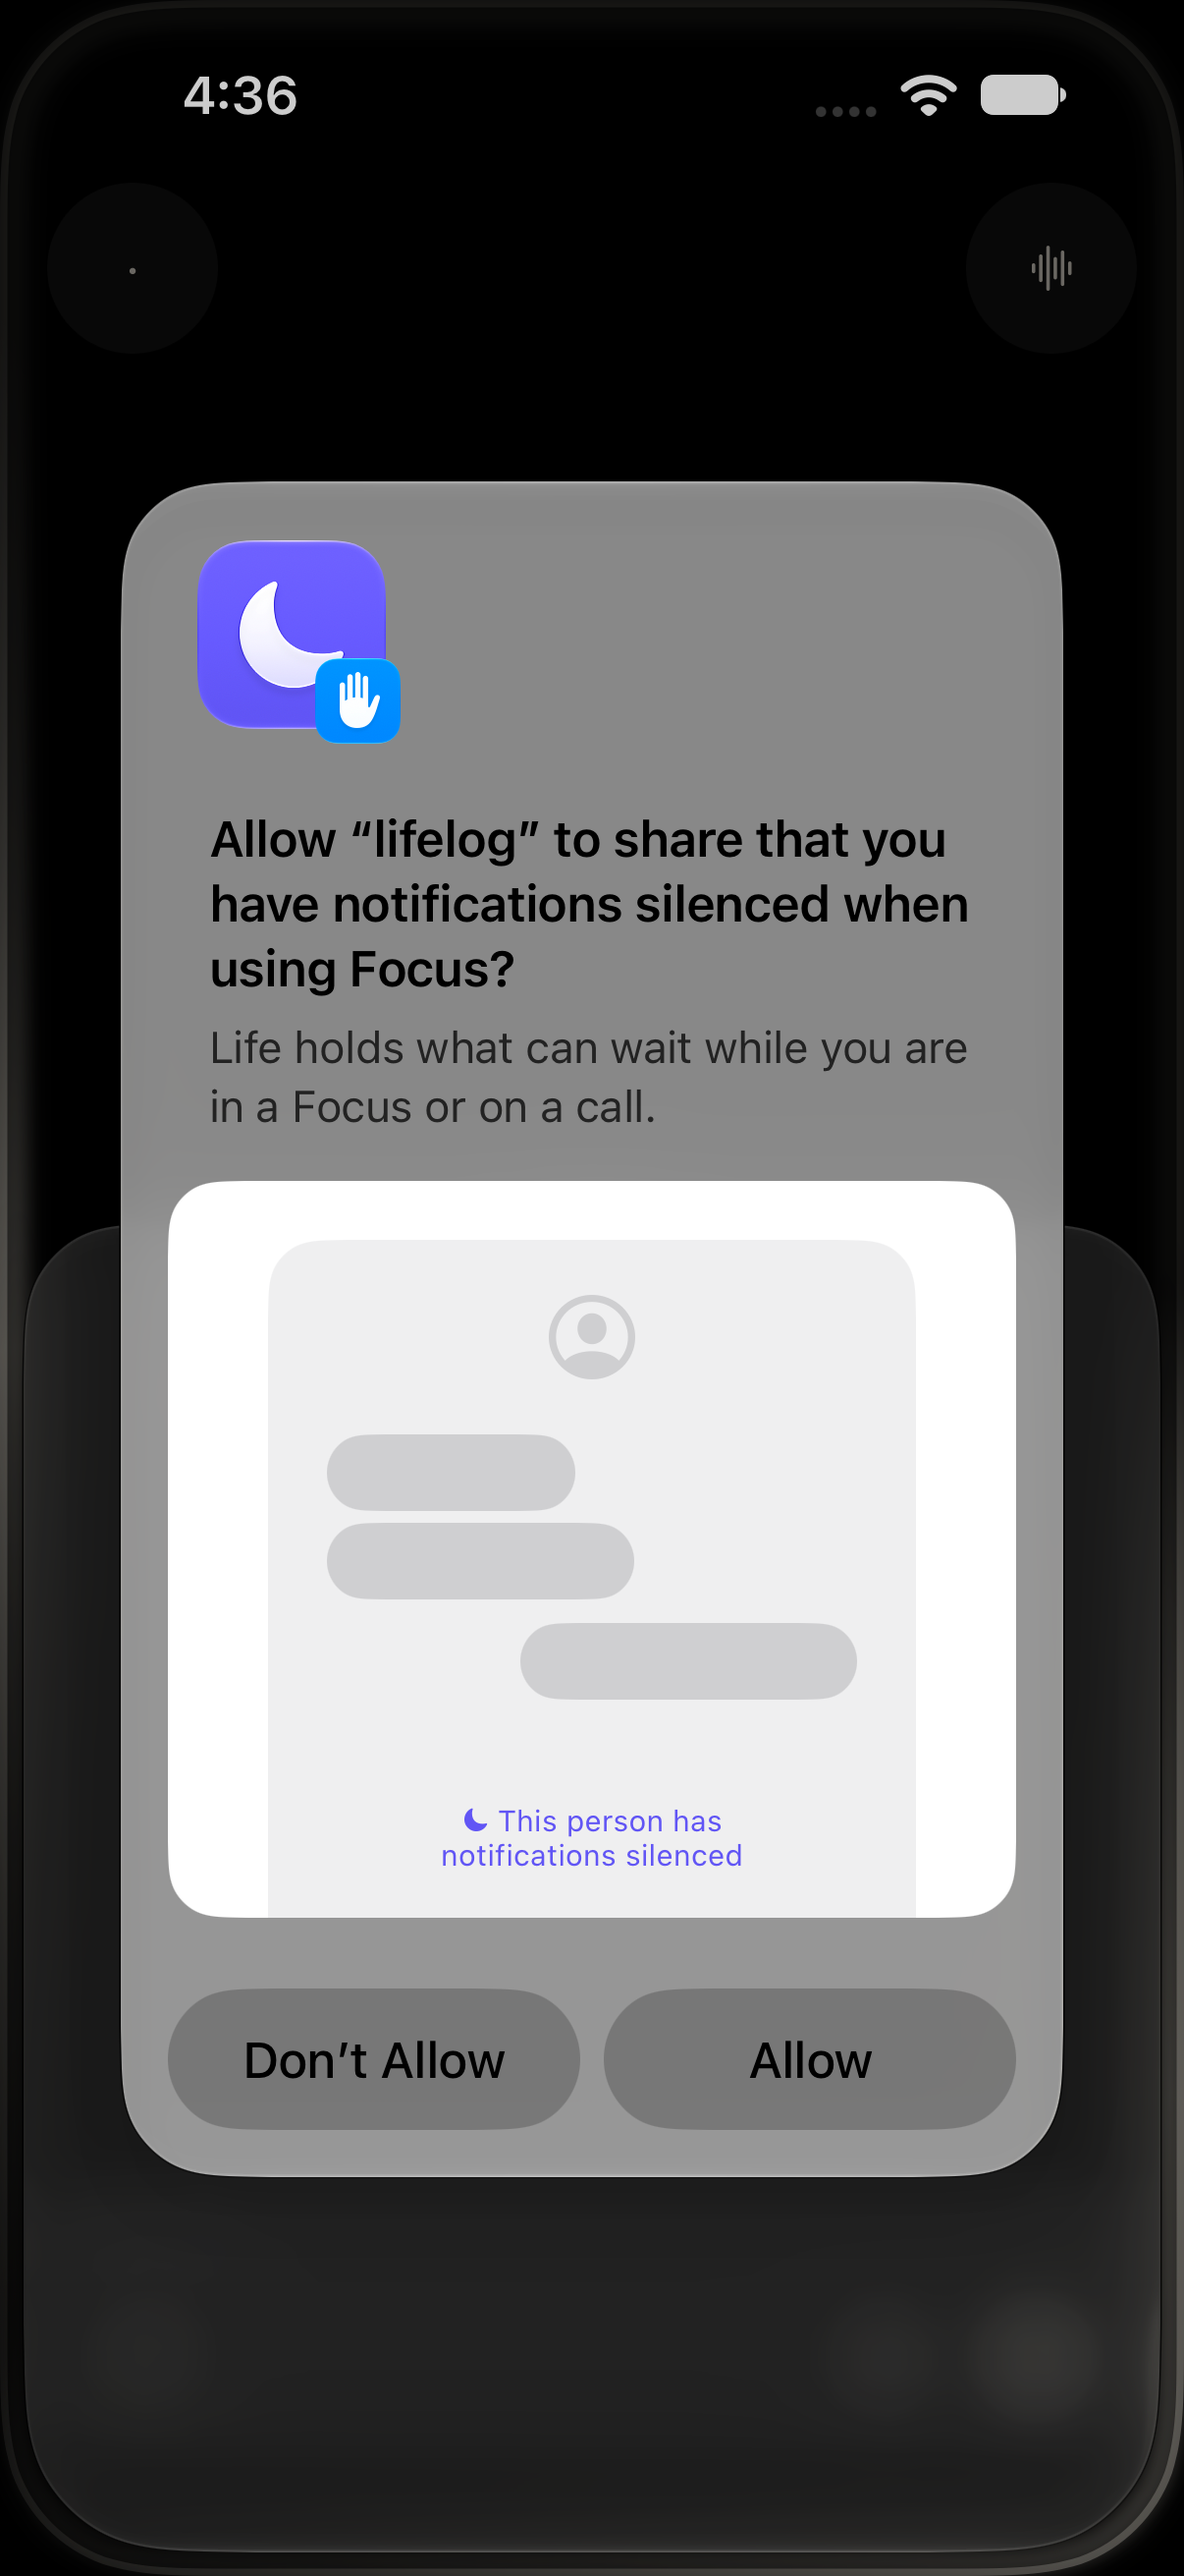
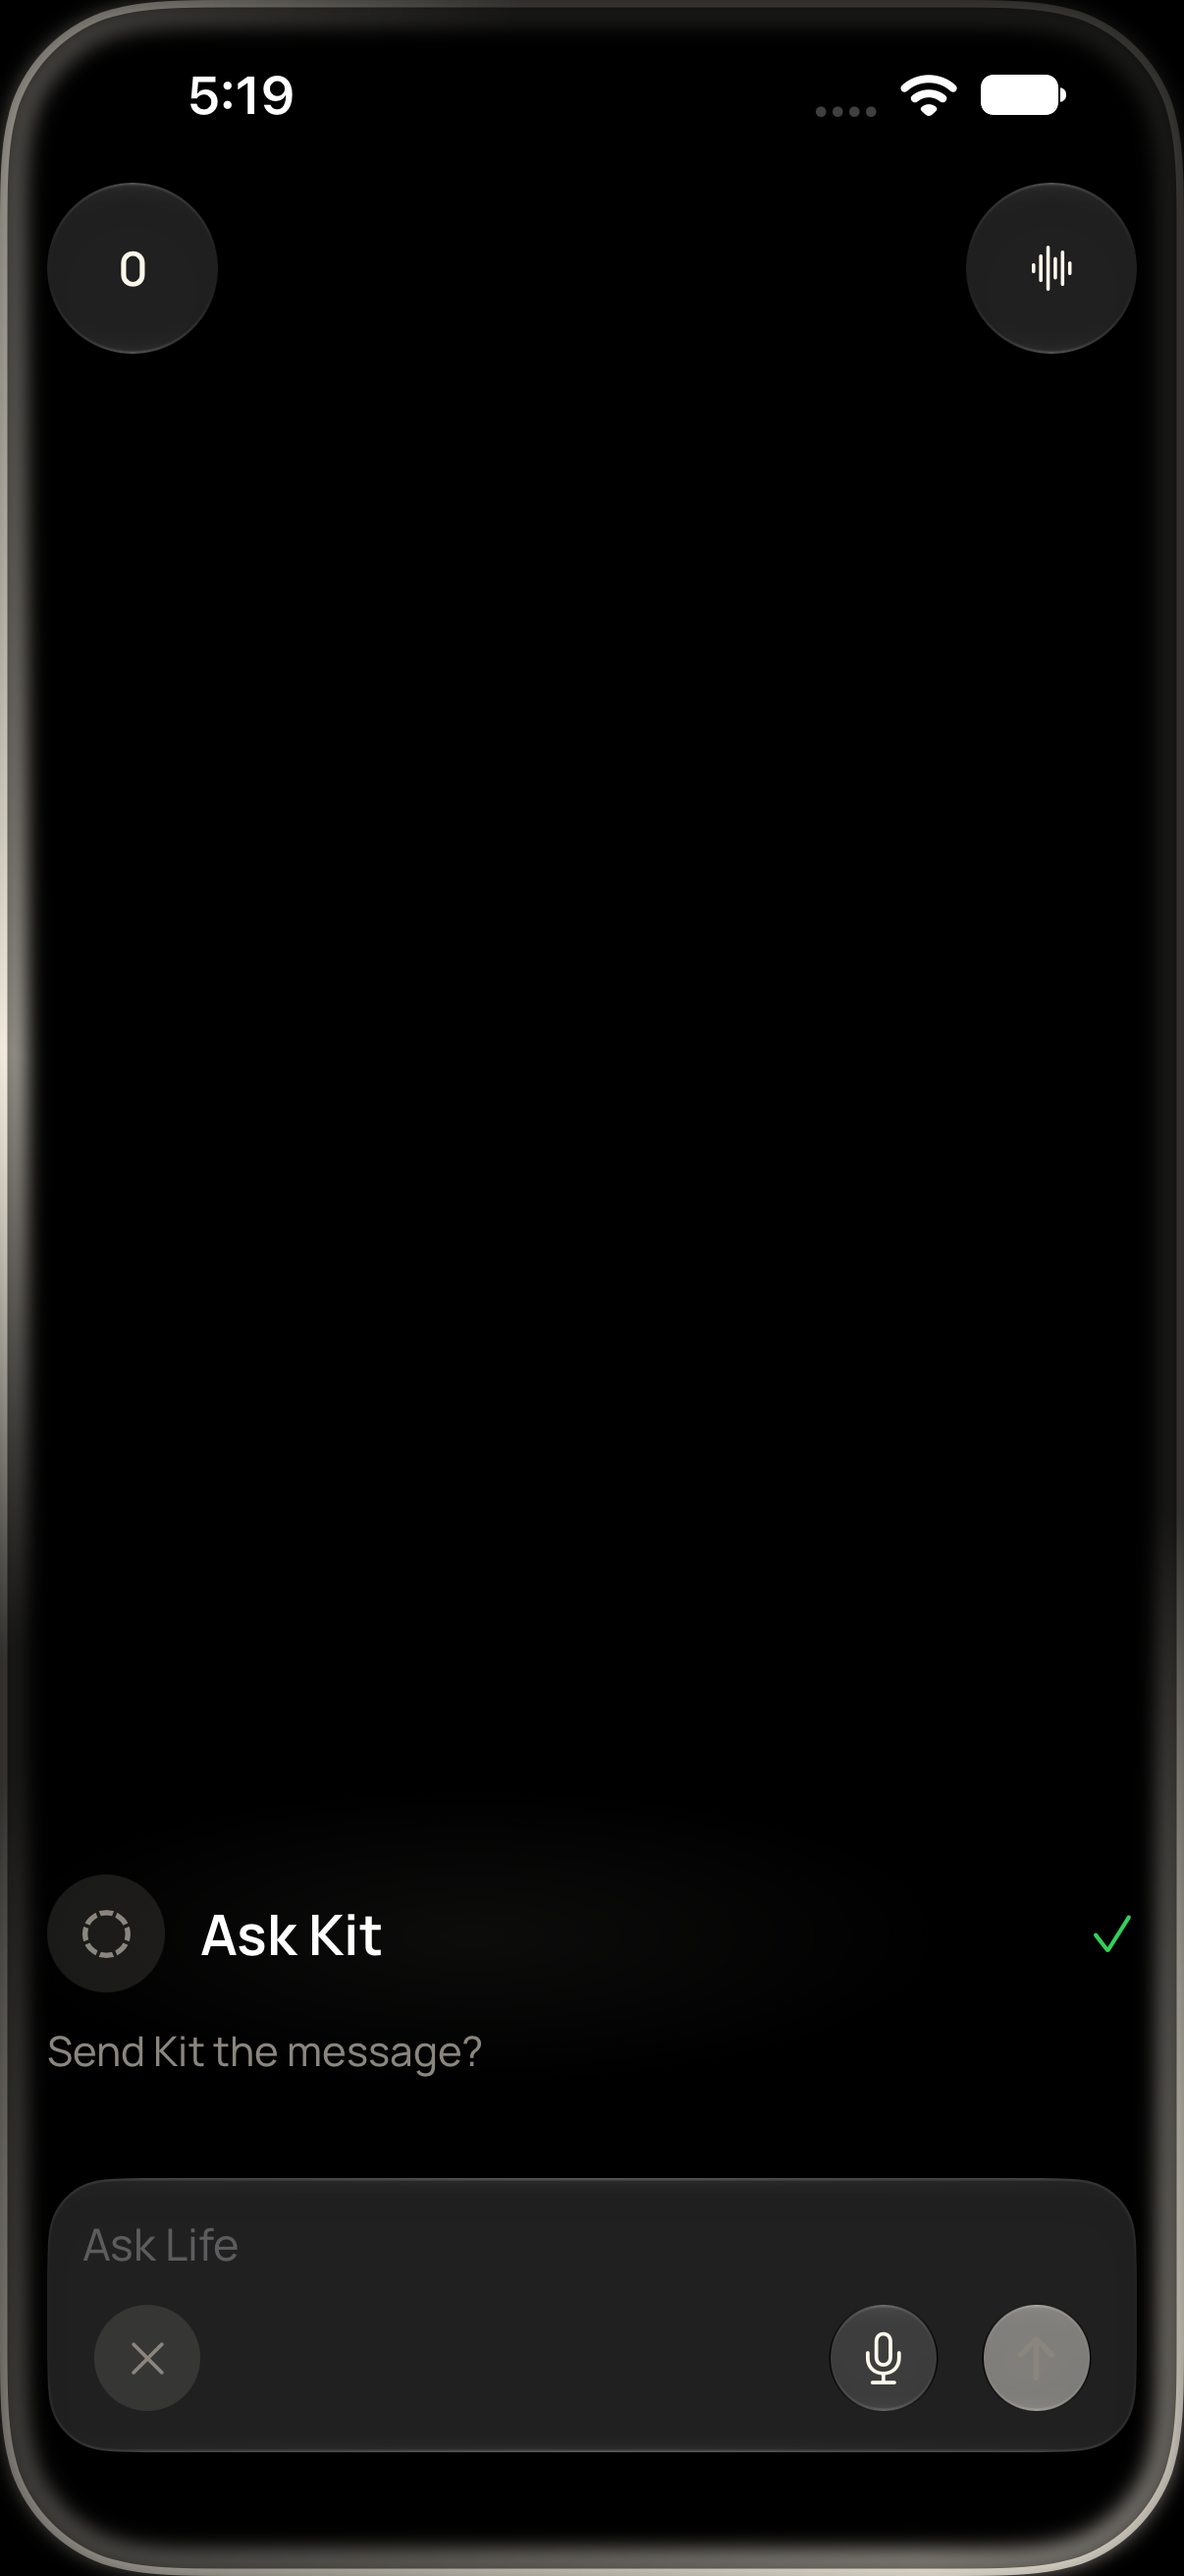
A1: say returns whether it went; settled shot; format

diff --git a/apps/lifelog/apps/ios/Lifelog/Thread/BlockViews.swift b/apps/lifelog/apps/ios/Lifelog/Thread/BlockViews.swift
@@ -4,7 +4,7 @@ import SwiftUI
 /// What a block may do: only his words and the phone's own screens, never an act of its own.
 struct BlockActions {
     /// An answer he taps in a question goes as his words.
-    var say: (String) -> Void = { _ in }
+    var say: (String) -> Bool = { _ in false }
     var openSettings: () -> Void = {}
 }
 
@@ -39,7 +39,8 @@ struct BlockView: View {
                 PlaceBlock(name: place.name, address: place.address)
             }
             .buttonStyle(.plain)
-        case .question(let q): QuestionBlock(answers: q.answers, recommended: q.recommended, say: actions.say)
+        case .question(let q):
+            QuestionBlock(answers: q.answers, recommended: q.recommended, say: { _ = actions.say($0) })
         case .settings(let keys, let offer):
             LiveSettingsBlock(keys: keys, offer: offer, say: actions.say, openSettings: actions.openSettings)
         }

diff --git a/apps/lifelog/apps/ios/Lifelog/RootView.swift b/apps/lifelog/apps/ios/Lifelog/RootView.swift
@@ -194,7 +194,10 @@ struct RootView: View {
     }
 
     private var actions: BlockActions {
-        BlockActions(say: { thread.ask($0, screen: screen) }, openSettings: { sheet = .settings })
+        BlockActions(
+            say: {
+                thread.ask($0, screen: screen); return true
+            }, openSettings: { sheet = .settings })
     }
 
     private func send() {
